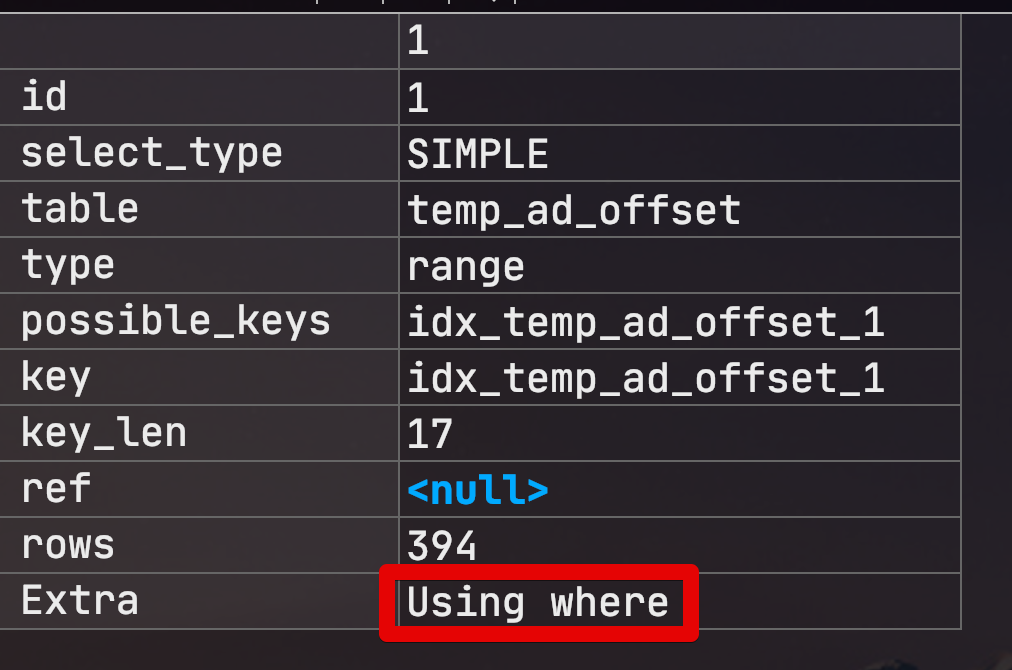
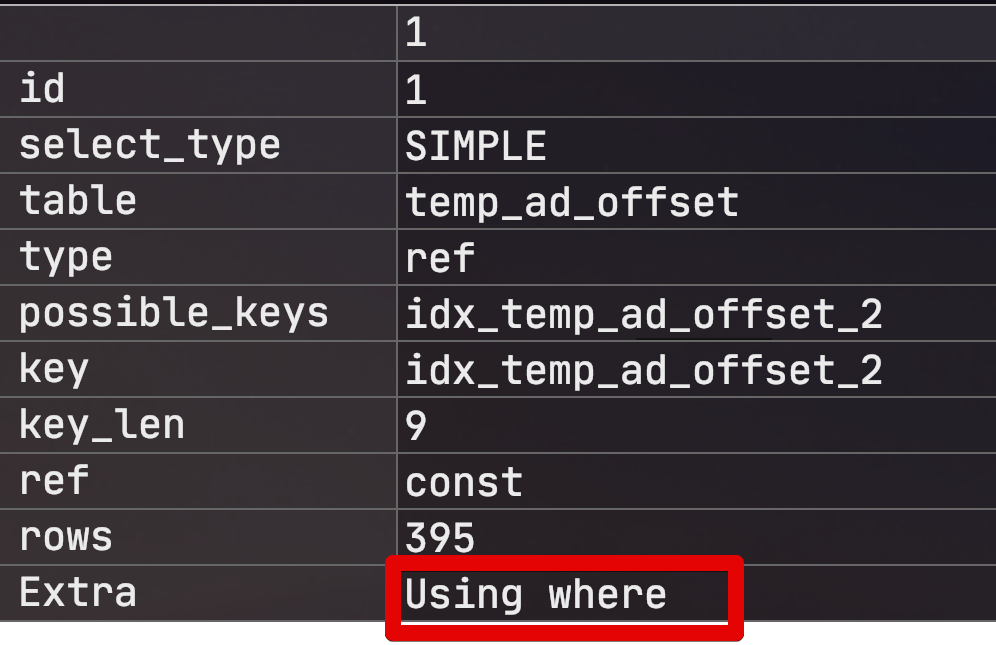
인덱스컨디션푸시다운 완성

diff --git a/database/mysql-index-condition-pushdown/README.md b/database/mysql-index-condition-pushdown/README.md
@@ -1,14 +1,18 @@
 # MySQL (MariaDB) 인덱스 컨디션 푸시다운
 
-MariaDB 5.3 이상 혹은 MySQL 5.6 버전 이상부터는 인덱스 컨디션 푸시 다운이라는 옵션이 도입 되었습니다.  
+팀에서 운영중이던 시스템에서 전반적인 성능 개선작업을 진행중 특정 쿼리의 실행 계획에서 ```Using index condition``` 값을 Extra 항목에서 보게 되었습니다.  
+커버링 인덱스 (```Using index```) 와는 어떤점이 다른지 정리하던 중, 인덱스 컨디션 푸시 다운 (ICP: Index Condition Pushdown)에 대해 알게되어서 정리하게 되었습니다.  
+
+> 커버링 인덱스도 정리중입니다.  
+> 혹시 정리되기전에 알고싶으신분들은 [성동찬님이 작성하신 글](https://gywn.net/2012/04/mysql-covering-index/)을 참고해보세요.
   
-이 기능이 어떤 역할을 하는지 간단하게 테스트로 확인해보겠습니다.
+MariaDB 5.3 이상 혹은 MySQL 5.6 버전 이상부터 도입된 인덱스 컨디션 푸시 다운에 대해 간단하게 테스트로 확인해보겠습니다.
+  
+> 최근에 MariaDB를 설치하신 분들은 다 10.x 버전을 쓰실거라 기본으로 해당 옵션이 ON되어있을겁니다.
 
 ## 1. 사전 작업
 
 먼저 테스트로 사용할 MySQL (or MariaDB) 에서 옵티마이저 스위치 값을 조정하여 인덱스 컨디션 푸시다운 옵션을 off 하겠습니다.
-
->최근에 MariaDB를 설치하신 분들은 다 10.x 버전을 쓰실거라 기본 옵션이 인덱스 컨디션 푸시다운 옵션이 ON되어있을겁니다.
 
 ```sql
 set optimizer_switch = 'index_condition_pushdown=off';
@@ -28,31 +32,68 @@ show variables like 'optimizer_switch';
 
 그리고 테스트에 사용할 환경을 구성합니다.  
 임의의 테스트 테이블(```temp_ad_offset```)을 만들고 대략 1300만건의 데이터를 넣어봅니다.  
-그리고 사용할 인덱스 역시 추가해줍니다.
+그리고 사용할 인덱스(```customer_id, offset_type```) 역시 추가해줍니다.
 
 ```sql
-ALTER TABLE temp_ad_offset ADD INDEX idx_temp_ad_offset_1 (customer_id, amount);
+ALTER TABLE temp_ad_offset ADD INDEX idx_temp_ad_offset_2 (customer_id, offset_type);
 ```
-
 
 ## 2. 테스트
 
-인덱스 컨디션 푸시다운 옵션이 off된 상태(```index_condition_pushdown=off```) 에서 아래 쿼리의 실행 계획을 확인해봅니다.
+인덱스 컨디션 푸시다운 옵션이 off된 상태(```index_condition_pushdown=off```) 에서 아래 쿼리의 실행 계획(```explain```) 을 확인해봅니다.
 
 ```sql
 select *
 from temp_ad_offset
-where customer_id = 7 and amount < 100000;
+where customer_id = 7 and offset_type like '%LIST';
 ```
+
+실행 계획을 보시면 ```Using where```가 나타난 것을 알 수 있습니다.
 
 ![1](./images/1.png)
 
-여기에서 ```Using where```는 InnoDB/XtraDB와 같은 **스토리지 엔진**이 읽어서 리턴해준 레코드가 인덱스를 사용할 수 없는 WHERE 조건에 일치하는지 검사하는 과정을 의미한다.  
-이 쿼리에서는 ```amount < 100000``` 이 검사 과정에서 사용된 조건인 것이다.  
+어찌보면 이건 당연한거죠?  
+  
+MySQL (MariaDB) 에서는 ```like``` 사용시 와일드카드 (ex: ```like %abc```)로 시작되는 값에 대해서는 **인덱스가 적용되지 않기 때문**에, ```customer_id = 7``` 는 인덱스를 통해 걸러내고, ```offset_type like '%LIST'``` 에 대해서는 인덱스가 적용되지 않는 방식이니 걸러진 데이터를 **테이블에서 하나씩 비교했기** 때문입니다.  
 
+> [참고](https://mariadb.com/kb/en/like/#optimizing-like)
+  
+좀 더 자세히 알아보기 위해 MySQL (MariaDB)의 쿼리 실행 구조를 확인해보겠습니다.  
+  
+MySQL (MariaDB) 는 내부적으로 MySQL (MariaDB) 엔진과 스토리지 엔진 (InnoDB/XtraDB) 로 나눠져 있습니다.  
 
-여기서 만약 ```customer_id=7```인 데이터가 10만건이나 되는데, 그 중 ```amount < 100000```인 데이터가 1개라면 어떻게 될까?  
-9만9999건의 불필요한 레코드 읽기가 발생하게 될 것입니다.  
+![2](./images/2.png)
+  
+스토리지 엔진이 넘겨 준 데이터 (인덱스를 사용해 걸러진 데이터) 중에서 MySQL (MariaDB) 엔진이 한번 더 걸러야되는 조건 (필터링 혹은 체크 조건)이 있다면 ```Using where```이 됩니다.  
+  
+즉, 이 쿼리에서 스토리지 엔진이 걸러 낼수 있는 조건은 ```customer_id=7``` 뿐이며 ```offset_type like '%LIST'``` 조건은 MySQL (MariaDB) 엔진에서 담당하여 ```customer_id=7``` 인 데이터들을 **테이블**에서 모두 찾아 ```offset_type like '%LIST'``` 조건을 비교하게 됩니다.  
+  
+헌데 여기서 한가지 의문이 생깁니다.  
+  
+이미 ```customer_id=7``` 을 통해 idx_temp_ad_offset_2 인덱스 필드 (customer_id, offset_type) 를 읽은 상태인데 **offset_type 비교를 테이블에서 굳이 할 필요가 있을까요**?  
+  
+이건 이유가 있습니다.  
+MySQL 5.5 (MariaDB 5.2) 버전까지는 인덱스에 포함된 필드이지만, **인덱스 범위 조건으로 사용할 수 없는 경우**엔 스토리지 엔진으로 조건 자체를 **전달 조차 못했습니다**.  
+스토리지 엔진에서 해당 필드에 대한 조건은 받은게 없으니 처리할수가 없는 것이죠.  
+  
+그 이후 버전 (MySQL 5.6 / MariaDB 5.3) 부터는 인덱스 범위 조건에 사용될 수 없어도, **인덱스에 포함된 필드**라면 스토리지 엔진으로 전달하여 **최대한 스토리지 엔진에서 걸러낸 데이터**만 MySQL (MariaDB) 엔진에만 전달되도록 개선되었습니다.  
 
+> 인덱스 조건을 스토리지 엔진으로 넘겨주기 때문에 **인덱스 컨디션 푸시 다운**이란 이름이 되었습니다.
 
-[](http://blog.naver.com/PostView.nhn?blogId=seuis398&logNo=70111486432)
+자 그럼 다시 ```index_condition_pushdown``` 옵션을 ```on``` 해보겠습니다.
+
+```sql
+set optimizer_switch = 'index_condition_pushdown=on';
+```
+
+그럼 아래와 같이 인덱스 컨디션 푸시 다운 잘 작동되는 것을 확인할 수 있습니다.
+
+![3](./images/3.png)
+
+## 3. 결론
+
+이미 높은 버전의 MySQL (MariaDB)를 사용하신다면 별다른 설정할게 없습니다.  
+인덱스 컨디션 푸시 다운 옵션이 기본적으로 활성화되어있기 때문이죠.  
+낮은 버전을 사용중이시라면 빨리 버전을 올리셔서 해당 옵션에 대해 체감해보시는게 좋을것 같습니다.
+
+* [MySQL 공식 문서 - index-condition-pushdown-optimization](https://dev.mysql.com/doc/refman/5.6/en/index-condition-pushdown-optimization.html)
